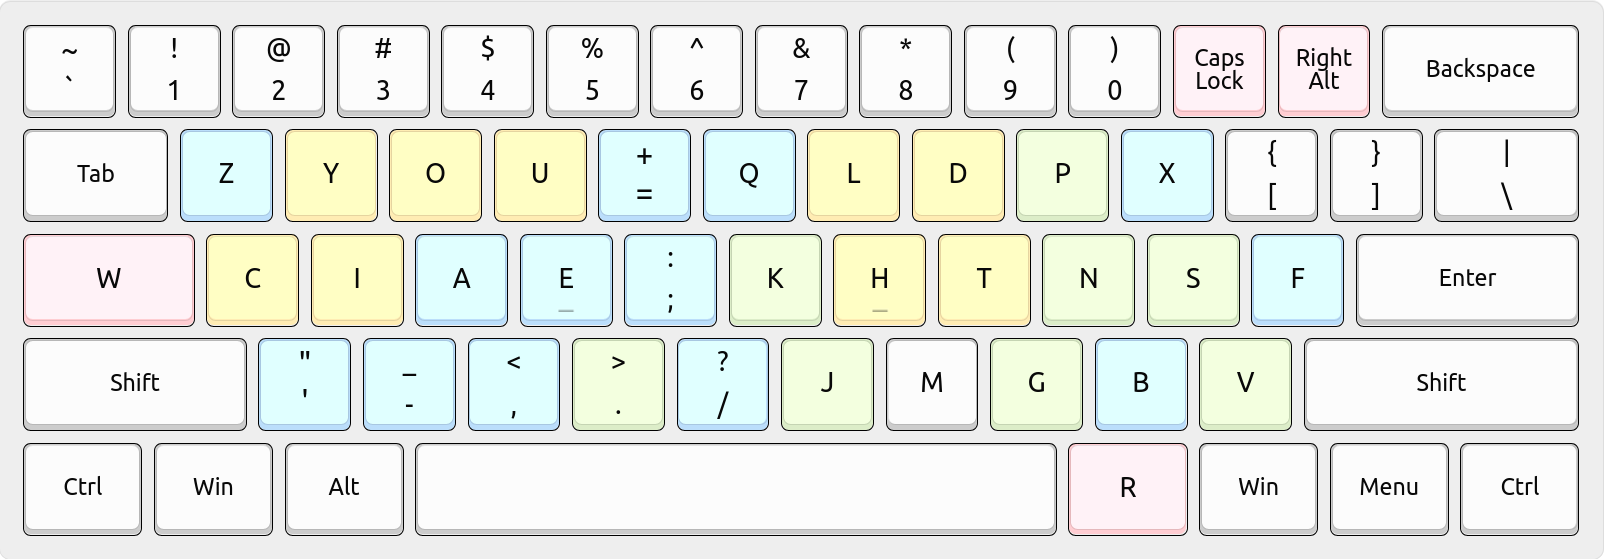
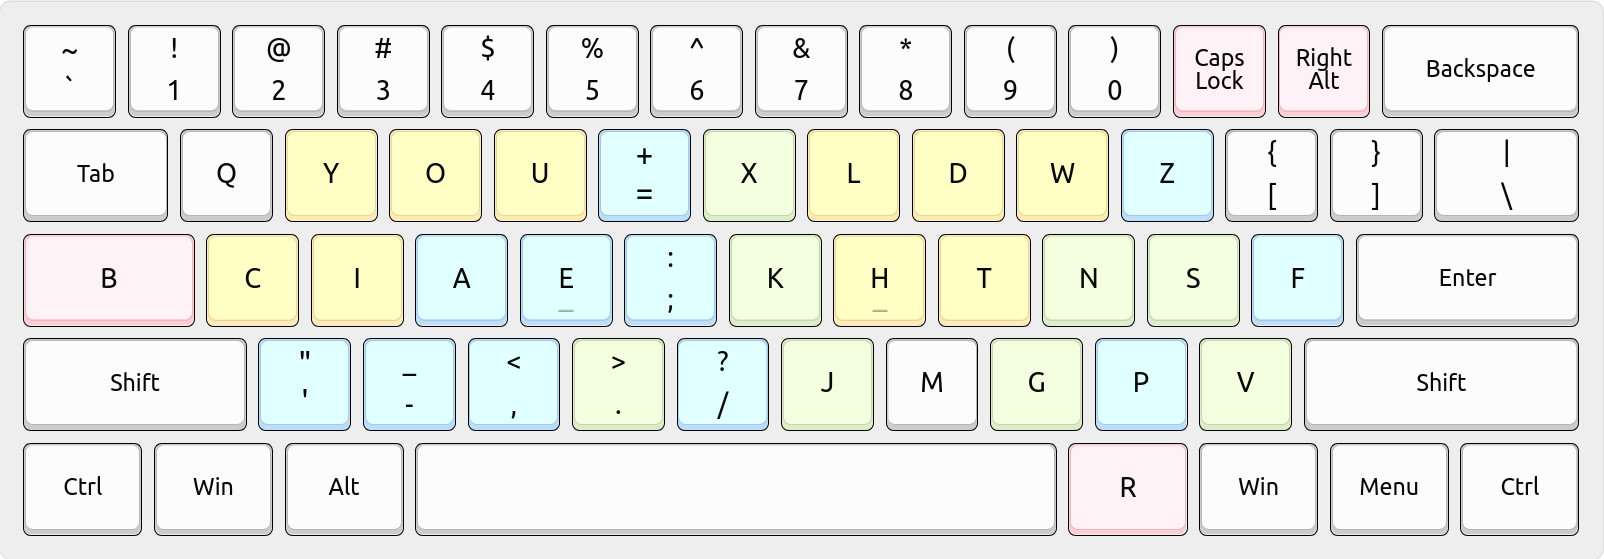
Enthium v12i candidate: ease left pinky's W burden
https://discord.com/channels/877392805654306816/1193051200938049546/1441584978944331858

diff --git a/README.md b/README.md
@@ -8,9 +8,9 @@ layout (YOU on the left hand) and the [Dvorak] layout (HTNS on the right hand)
 while optimizing punctuation placement for programming in the spirit of Engrammer,
 featuring HJKL and `,;` for Vim, `-=` for zooming, and `./` for filesystem paths.
 
-      z y o u = q l d p x
-    w c i a e ; k h t n s f
-      ' - , . / j m g b v
+      q y o u = x l d w z
+    b c i a e ; k h t n s f
+      ' - , . / j m g p v
                 r
 
 ![Heatmap of this layout by Valorance, adapted from Oxeylyzer.](heatmap.png)
@@ -27,13 +27,13 @@ featuring HJKL and `,;` for Vim, `-=` for zooming, and `./` for filesystem paths
 
 ## Rationale
 
-* The primary same-finger bigrams UE (0.08%), OA (0.05%), and YI (0.03%) can be
-  raked down vertically, minimizing their impact on typing flow and performance.
+* Same-finger bigrams (SFBs) such as UE (0.08%), WN (0.06%), and OA (0.05%) can
+  be raked down vertically, reducing their impact on typing flow and performance.
 
-* Pinky load is distributed by frequency: heavy letters W (1.77%) and F (2.14%)
+* Pinky load is distributed by frequency: heavy letters B (1.44%) and F (2.14%)
   are close at hand on the home row's lateral pinky keys (CapsLock, Apostrophe);
   medium letters `'` (0.47%) and V (1.09%) are on the lower row pinky keys; and
-  light letters Z (0.09%) and X (0.02%) are on the upper row, which all together
+  light letters Q (0.10%) and Z (0.09%) are on the upper row, which all together
   help reduce strain for short pinky fingers or those [weakened by convention].
 
 * Apostrophe is away (on a different finger entirely) from YOU and I so that
@@ -62,38 +62,39 @@ and you'll see that Enthium is statistically among the best layouts there.
 
 Comparing with [conventional layout rankings][PGl]:
 
-* 0.02% LSBs — wins 🥇 first place; beats the entire table!
-* 0.55% SFBs — wins 🥈 second place; surpassed by Focal
-* 1.36% redirects — wins 🥇 first place; beats the entire table!
-* 0.17% scissors — fifth place; after ColemakDH, MTGAP, APTv3, Dvorak
-* 47.02% rolls — beats Focal, MTGAP, Graphite, Gallium, HandsDownNeu, Halmak
-* 3.31% pinky off — beats APTv3, Semimak, MTGAP, Dvorak, Recurva, Halmak, Engram
+* 0.05% LSBs — wins 🥇 first place; beats the entire table!
+* 0.60% SFBs — fourth place; after Focal, Recurva, Semimak
+* 1.48% redirects — wins 🥇 first place; beats the entire table!
+* 0.17% scissors — fifth place; after Dvorak, APTv3, ColemakDH, MTGAP
+* 45.77% rolls — beats Semimak, Gallium, Engram, HandsDownNeu, Halmak, Dvorak
+* 3.22% pinky off — beats APTv3, Semimak, MTGAP, Dvorak, Recurva, Halmak, Engram
 
 Comparing with [thumb-letter layout rankings][PGt]:
 
-* 0.02% LSBs — wins 🥇 first place; beats the entire table!
-* 0.55% SFBs — wins 🥈 second place; surpassed by Night
-* 1.36% redirects — wins 🥉 third place; after Vibranium, Nordrassil
-* 0.17% scissors — fourth place; after Maltron, Promethium, RSTHD
-* 47.02% rolls — fourth place; after Caster, Maltron, RSTHD
-* 3.31% pinky off — fourth place; after Night, Nordrassil, RSTHD
+* 0.05% LSBs — wins 🥇 first place; beats the entire table!
+* 0.60% SFBs — fourth place; after Night, Vibranium, Promethium
+* 1.48% redirects — wins 🥉 third place; after Nordrassil, Vibranium
+* 0.17% scissors — fourth place; after RSTHD, Promethium, Maltron
+* 45.77% rolls — beats Promethium and Nordrassil
+* 3.22% pinky off — fourth place; after RSTHD, Nordrassil, Night
 
 Enthium's SFBs can be neutralized by raking them down vertically:
 
-* 0.55% total SFBs - 0.34% rakeable SFBs = **0.21% _effective_ SFBs**
+* 0.60% total SFBs - 0.40% rakeable SFBs = **0.20% _effective_ SFBs**
   - `e.` (0.14%)
   - `ue` (0.08%)
+  - `wn` (0.06%)
   - `oa` (0.05%)
   - `yi` (0.03%)
   - `a,` (0.02%)
+  - `np` (0.01%)
   - `hm` (0.01%)
-  - `nb` (0.01%)
 
 These results were [computed with Cyanophage's Layout Analyzer][cNM] as follows.
 
 [![Statistics for Enthium from Cyanophage's Layout Analyzer](cyanophage.png)][cNM]
 
-[cNM]: https://cyanophage.github.io/playground.html?layout=zyou%3Dqldpx%5Cciae%3Bkhtnsf%27-%2C.%2Fjmgbv*rw&mode=ergo&lan=english&thumb=r
+[cNM]: https://cyanophage.github.io/playground.html?layout=qyou%3Dxldwz%5Cciae%3Bkhtnsf%27-%2C.%2Fjmgpv*rb&mode=ergo&lan=english&thumb=r
 [cPM]: https://cyanophage.github.io/playground.html?layout=fpdlx%3Buoybzsnthk%2Caeicqvwgmj-.%27%3D%2F%5Cr&mode=ergo&lan=english&thumb=l
 [cNG]: https://cyanophage.github.io/playground.html?layout=byou%27%3Bldwvzciea%2C.htsnqgxjk-%2Frmfp%5C%5E&mode=ergo&lan=english&thumb=l
 [cDV]: https://cyanophage.github.io/playground.html?layout=%27%2C.pyfgcrl%2Faoeuidhtns-%3Bqjkxbmwvz%5C%5E&mode=ergo&lan=english&thumb=l
@@ -102,22 +103,22 @@ These results were [computed with Cyanophage's Layout Analyzer][cNM] as follows.
 
 | Category  | Statistic           | *[Enthium][cNM]* | [Promethium][cPM] | [Engrammer][cNG] | [Dvorak][cDV] | [Colemak-DH][cCD] | [QWERTY][cQW] |
 | --------- | ------------------- | ---------------- | ----------------- | ---------------- | ------------- | ----------------- | ------------- |
-| Summary   | Total Word Effort   | *725.0*          | 732.1             | 899.5            | 1185.5        | 1047.9            | 2070.6        |
-| Summary   | Effort              | *418.25*         | 398.09            | 457.41           | 769.69        | 534.99            | 1258.15       |
-| Bigrams   | Same Finger Bigrams | *0.55%*          | 0.58%             | 0.99%            | 1.87%         | 0.91%             | 4.38%         |
-| Bigrams   | Skip Bigrams (2u)   | *0.34%*          | 0.36%             | 0.39%            | 0.45%         | 0.49%             | 1.43%         |
-| Bigrams   | Lat Stretch Bigrams | *0.02%*          | 0.24%             | 0.41%            | 0.80%         | 1.27%             | 4.55%         |
+| Summary   | Total Word Effort   | *736.7*          | 732.1             | 899.5            | 1185.5        | 1047.9            | 2070.6        |
+| Summary   | Effort              | *415.54*         | 398.09            | 457.41           | 769.69        | 534.99            | 1258.15       |
+| Bigrams   | Same Finger Bigrams | *0.60%*          | 0.58%             | 0.99%            | 1.87%         | 0.91%             | 4.38%         |
+| Bigrams   | Skip Bigrams (2u)   | *0.36%*          | 0.36%             | 0.39%            | 0.45%         | 0.49%             | 1.43%         |
+| Bigrams   | Lat Stretch Bigrams | *0.05%*          | 0.24%             | 0.41%            | 0.80%         | 1.27%             | 4.55%         |
 | Bigrams   | Scissors            | *0.17%*          | 0.11%             | 0.36%            | 0.08%         | 0.15%             | 1.46%         |
-| Trigrams  | Alt                 | *37.17%*         | 36.98%            | 35.62%           | 39.08%        | 25.43%            | 21.38%        |
-| Trigrams  | Alt SFS             | *4.55%*          | 5.27%             | 5.93%            | 5.85%         | 5.47%             | 5.42%         |
+| Trigrams  | Alt                 | *37.82%*         | 36.98%            | 35.62%           | 39.08%        | 25.43%            | 21.38%        |
+| Trigrams  | Alt SFS             | *4.72%*          | 5.27%             | 5.93%            | 5.85%         | 5.47%             | 5.42%         |
 | Trigrams  | Roll in             | *1.56%*          | 1.72%             | 1.82%            | 0.28%         | 1.50%             | 1.32%         |
-| Trigrams  | Roll out            | *0.37%*          | 0.29%             | 0.29%            | 0.27%         | 0.98%             | 1.48%         |
-| Trigrams  | Bigram roll in      | *28.01%*         | 29.17%            | 28.14%           | 23.51%        | 25.18%            | 20.38%        |
-| Trigrams  | Bigram roll out     | *17.08%*         | 14.56%            | 14.03%           | 15.14%        | 21.54%            | 17.58%        |
-| Trigrams  | Redirect            | *1.36%*          | 1.53%             | 2.26%            | 1.55%         | 5.33%             | 6.22%         |
-| Trigrams  | Weak redirect       | *0.92%*          | 0.87%             | 0.74%            | 0.64%         | 1.09%             | 0.44%         |
-| Trigrams  | Other               | *8.97%*          | 9.61%             | 11.17%           | 13.68%        | 13.49%            | 25.78%        |
-| Computed  | Pinky off           | *3.31%*          | 4.08%             | 5.70%            | 4.13%         | 0.78%             | 2.47%         |
+| Trigrams  | Roll out            | *0.39%*          | 0.29%             | 0.29%            | 0.27%         | 0.98%             | 1.48%         |
+| Trigrams  | Bigram roll in      | *26.99%*         | 29.17%            | 28.14%           | 23.51%        | 25.18%            | 20.38%        |
+| Trigrams  | Bigram roll out     | *16.83%*         | 14.56%            | 14.03%           | 15.14%        | 21.54%            | 17.58%        |
+| Trigrams  | Redirect            | *1.48%*          | 1.53%             | 2.26%            | 1.55%         | 5.33%             | 6.22%         |
+| Trigrams  | Weak redirect       | *0.81%*          | 0.87%             | 0.74%            | 0.64%         | 1.09%             | 0.44%         |
+| Trigrams  | Other               | *9.39%*          | 9.61%             | 11.17%           | 13.68%        | 13.49%            | 25.78%        |
+| Computed  | Pinky off           | *3.22%*          | 4.08%             | 5.70%            | 4.13%         | 0.78%             | 2.47%         |
 
 [rKL]: https://www.reddit.com/r/KeyboardLayouts/
 [PGr]: https://getreuer.info/posts/keyboards/alt-layouts/
